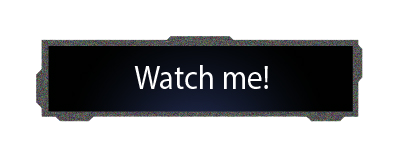
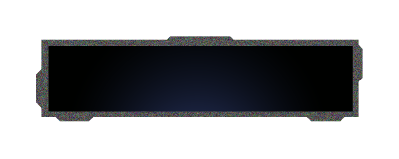
fix: button

diff --git a/src/containers/about/PreviousSpeakerContainer.tsx b/src/containers/about/PreviousSpeakerContainer.tsx
@@ -76,7 +76,7 @@ export default function PreviousSpeakerContainer() {
             </div>
             <div className='justify- flex h-1/4 w-full flex-col items-center  max-md:h-36 max-md:translate-y-24'>
               <div
-                className='shadow-4xl flex h-36 w-1/4 flex-col items-center justify-evenly rounded-3xl bg-[rgba(255,255,255,.25)] backdrop-blur max-lg:w-4/5 
+                className='shadow-4xl flex h-36 w-1/4 flex-col items-center justify-evenly rounded-3xl bg-[rgba(255,255,255,.25)] drop-shadow-lg backdrop-blur max-lg:w-4/5 
             '
               >
                 <h1 className='font-baron text-sm text-cwhite max-md:text-xs'>
@@ -84,8 +84,14 @@ export default function PreviousSpeakerContainer() {
                 </h1>
                 <h2 className='text-8xl text-cred max-md:text-7xl'>239.000+</h2>
               </div>
-              <button onClick={() => setIsPlay(!isPlay)}>
+              <button
+                onClick={() => setIsPlay(!isPlay)}
+                className='relative w-96'
+              >
                 <Image src={button} alt='' />
+                <h1 className='absolute bottom-[60px] left-32 text-white max-md:text-4xl'>
+                  Watch Me!
+                </h1>
               </button>
             </div>
 
